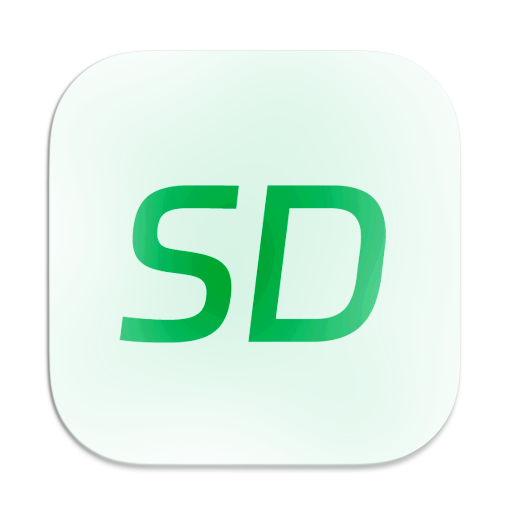
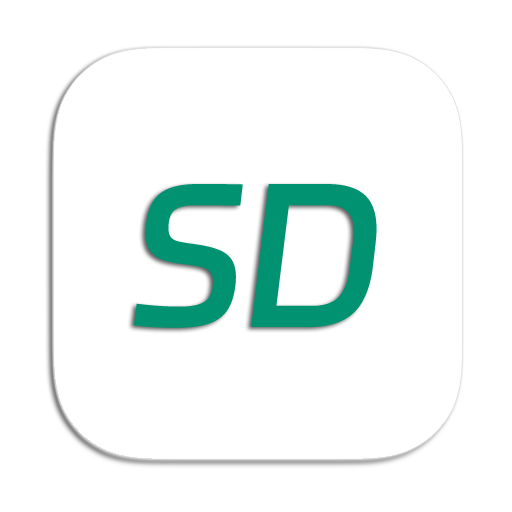
feat: 更新主题颜色和样式 - 修改了多个组件的背景色、字体颜色等样式 -调整了部分布局结构 - 更新了README中的发布日期 - 修改了Cargo.toml中的项目信息

diff --git a/src/node/Note.vue b/src/node/Note.vue
@@ -9,54 +9,56 @@ const props = defineProps(['data'])
 </script>
 
 <template>
-    <div class="note_node">
-        <!-- 这是便笺的标题 -->
-        <div class="header">
-            <Notes class="icon" />
-            <span>{{ data.basic.label }}</span>
-        </div>
-        <!-- 这是便笺的内容 -->
-        <ElInput v-model="data.component.text" class="body no-border-bg " type="textarea" :rows="11" autofocus />
+  <div class="note_node">
+    <!-- 这是便笺的标题 -->
+    <div class="header">
+
+      <span>{{ data.basic.label }}</span>
     </div>
+    <!-- 这是便笺的内容 -->
+    <ElInput v-model="data.component.text" class="body no-border-bg " type="textarea" :rows="11" autofocus/>
+  </div>
 </template>
 
 <style scoped>
 .no-border-bg :deep(.el-input__inner),
 .no-border-bg :deep(.el-textarea__inner) {
-    border: none !important;
-    background-color: transparent !important;
-    --el-input-focus-border-color: transparent !important;
-    --el-input-border-color: transparent !important;
-    --el-input-hover-border-color: transparent !important;
-    height: 100%;
-    font-family: 'dingtalk',serif;
-    color: #ffffff;
+  border: none !important;
+  background-color: transparent !important;
+  --el-input-focus-border-color: transparent !important;
+  --el-input-border-color: transparent !important;
+  --el-input-hover-border-color: transparent !important;
+  height: 100%;
+  font-family: 'dingtalk', serif;
+  color: #7e7e7e;
 }
 
 .note_node {
-    width: 200px;
-    height: 300px;
-    background: #ddc258;
-    border-radius: 5px;
-    box-shadow: 0 2px 5px 0 rgba(0, 0, 0, 0.3);
-    padding: 5px 10px;
-    text-align: center;
+  width: 200px;
+  height: 300px;
+  background: #ffffff;
+  border: #eeeeee 1px solid;
+  border-radius: 5px;
+  box-shadow: 0 2px 5px 0 rgba(0, 0, 0, 0.3);
+  padding: 5px 10px;
+  text-align: center;
 }
 
 .header {
-    font-size: 14px;
-    margin-bottom: 10px;
-    font-family: 'dingtalk',serif;
-    text-align: left;
-    padding: 10px;
-    border-bottom: 1px solid #ebebeb;
-    color: white;
+  font-size: 14px;
+  margin-bottom: 10px;
+  font-family: 'dingtalk', serif;
+  text-align: center;
+  padding: 12px;
+  border-bottom: 1px solid #ebebeb;
+  color: #454545;
 }
 
 .body {
-    text-align: left;
+  text-align: left;
 }
-.icon{
-    margin-right: 5px;
+
+.icon {
+  margin-right: 15px;
 }
 </style>

diff --git a/src/pages/Design.vue b/src/pages/Design.vue
@@ -62,9 +62,10 @@
               <PackNode v-bind="packNodeProps"/>
             </template>
           </VueFlow>
-          <el-empty class="empty" image="/icon.png" v-else>
+          <el-empty class="empty" image-size=0 v-else>
             <template #description>
-              <span class="empty-description-text">Simx Era 设计器</span>
+              <p class="empty-description-title">Simx Era Design</p>
+              <p class="empty-description-text">适用于 Simx Quantum Engine 的流程设计器</p>
             </template>
           </el-empty>
         </div>
@@ -198,13 +199,12 @@ onConnect(addEdges)
 .panel {
   display: flex;
   flex-direction: column;
-  width: 300px;
+  width: 235px;
 }
 
 .mainBar {
   height: 100%;
   /* width: 45px; */
-  padding-top: 10px;
   padding-left: 5px;
   padding-right: 5px;
   /* 元素纵向排列，顶对齐，水平居中，间隔10px */
@@ -250,9 +250,8 @@ onConnect(addEdges)
 .design {
   display: flex;
   flex-direction: column;
-  height: calc(100vh - 11px);
+  height: calc(100% - 1px);
   border-top: #ebebeb 1px solid;
-
 }
 
 .design-content {
@@ -302,6 +301,10 @@ onConnect(addEdges)
   gap: 10px;
 }
 
+.mainBarTop > :first-child {
+  margin-top: 5px;
+}
+
 .mainBarBottom {
   display: flex;
   flex-direction: column;
@@ -311,10 +314,18 @@ onConnect(addEdges)
   padding-bottom: 10px;
 }
 
-.empty-description-text {
-  color: #474747;
+.empty-description-title {
+  color: #8c8c8c;
   font-family: 'dingtalk', serif;
   font-weight: 300;
-  font-size: 18px;
+  font-size: 20px;
+  margin-bottom: 15px;
+}
+
+.empty-description-text {
+  color: #b8b8b8;
+  font-family: 'dingtalk', serif;
+  font-weight: 200;
+  font-size: 13px;
 }
 </style>

diff --git a/src/panel/NodesPanel.vue b/src/panel/NodesPanel.vue
@@ -86,12 +86,23 @@ const project = useProjectStore();
   width: 100%;
 }
 
+.sidebar .nodes {
+  display: flex;
+  flex-wrap: wrap; /* 允许换行 */
+  justify-content: left; /* 子元素之间有间距 */
+  align-items: flex-start;
+  justify-items: center;
+}
+
 .sidebar .nodes > div {
   margin-bottom: 10px;
+  margin-right: 10px; /* 添加水平间距 */
+  font-size: 11px;
   text-align: center;
-  line-height: 35px;
-  height: 35px;
-  width: 100%;
+  line-height: 30px;
+  height: 30px;
+  /*width: calc(33.333% - 10px); */
+  width: 90px; /* 每行显示三个节点 */
   border-radius: 5px;
   cursor: pointer;
   box-shadow: 0 1px 2px 0 rgba(0, 0, 0, 0.1);
@@ -104,30 +115,30 @@ const project = useProjectStore();
 .sidebar_start {
   color: #fff;
   font-weight: bold;
-  background-color: rgb(105, 123, 255);
+  background-color: rgb(5, 88, 35);
+}
+
+.sidebar_start:hover {
+  background-color: rgb(4, 158, 59);
 }
 
 .sidebar_exec {
   color: #fff;
   font-weight: bold;
-  background-color: rgb(105, 200, 255);
+  background-color: rgb(0, 94, 149);
 }
 
 .sidebar_exec:hover {
-  background-color: rgb(0, 162, 255);
-}
-
-.sidebar_start:hover {
-  background-color: rgb(0, 30, 255);
+  background-color: rgb(0, 113, 181);
 }
 
 .sidebar_note {
   color: #fff;
   font-weight: bold;
-  background-color: #ddc258;
+  background-color: #939393;
 }
 
 .sidebar_note:hover {
-  background-color: #ae9222;
+  background-color: #b5b5b5;
 }
 </style>

diff --git a/src/panel/AttrPanel.vue b/src/panel/AttrPanel.vue
@@ -49,11 +49,11 @@
             </el-tab-pane>
             <el-tab-pane label="自定义" name="custom">
                 <el-form :model="runtime.attr.custom" label-position="top">
-                    <div v-for="(item, index) in Object.keys(runtime.attr.custom)">
+                    <div v-for="(_, index) in Object.keys(runtime.attr.custom)">
                         <el-input :prefix-icon="MilkTea" v-model="runtime.attr.custom[index]" placeholder="格式key:value"
                             class="input-with-custom">
                             <template #append>
-                                <el-button type="warning" @click="handleCustomRemove(index)" :icon="Delete" />
+                                <el-button type="warning" @click="handleCustomRemove(index)" size="small" :icon="Delete" />
                             </template>
                         </el-input>
                     </div>

diff --git a/src/pages/Workspace.vue b/src/pages/Workspace.vue
@@ -29,7 +29,7 @@ const workspaceOpend = computed(() => {
         <img src="/icon.png" class="logo" alt="Logo"/>
         <!-- 标题 -->
         <span class="title">Simx Flow Design</span>
-        <div class="description">Simx Era Design 2025.1 春季版</div>
+        <div class="description">Simx Era Design 2025.2 夏季版</div>
         <div>
           <el-tooltip content="点击打开工作区，也可以选择一个空文件夹作为工作区" placement="bottom" effect="light">
             <el-button type="primary" link @click="openWorkspace">点击打开一个工作区</el-button>
@@ -69,7 +69,9 @@ const workspaceOpend = computed(() => {
 
 <style scoped>
 .main_container {
+  max-height: 100vh;
   height: calc(100vh - 10px);
+  overflow: auto;
 }
 
 .table {

diff --git a/src/components/NavePanel.vue b/src/components/NavePanel.vue
@@ -22,7 +22,7 @@ export default {
     },
     width: {
       type: String,
-      default: '400px'
+      default: '350px'
     },
     // 指定某个边显示边框
     locationBorder: {
@@ -36,14 +36,15 @@ export default {
 
 <style scoped>
 .nav-panel-header {
-  height: 25px;
+  height: 18px;
   display: flex;
   justify-content: space-between;
   align-items: center;
-  font-size: 14px;
+  background-color: rgba(238, 238, 238, 0.27);
+  font-size: 12px;
   /* font-weight: bold; */
   text-align: left;
-  padding: 10px 16px;
+  padding: 5px 16px;
   border-bottom: 1px solid #ebebeb;
   /* 隐藏超出的部分 */
   white-space: nowrap;

diff --git a/src/node/Exec.vue b/src/node/Exec.vue
@@ -19,17 +19,17 @@ watch(() => runtime.attr.basic.id, (newVal) => {
 
 <template>
     <div class="custom-node exec_node" :class="boxClass">
-        <Handle type="target" :position="Position.Top" />
+        <Handle type="target" :position="Position.Left" />
         <Components class="icon" />
         <div>{{ data.basic.label }}</div>
-        <Handle type="source" :position="Position.Bottom" />
+        <Handle type="source" :position="Position.Right" />
     </div>
 </template>
 
 <style scoped>
 .exec_node {
     color: #fff;
-    background: rgb(105, 200, 255);
+    background: rgb(0, 94, 149);
 }
 .icon{
     margin-right: 5px;

diff --git a/src/main.css b/src/main.css
@@ -54,7 +54,7 @@ body,
 
 /* 添加自定义主题色 */
 :root {
-    --el-color-primary: #00a6ff;
+    --el-color-primary: #12814c;
 }
 
 .el-menu--horizontal>.el-menu-item.is-active {
@@ -63,7 +63,7 @@ body,
 
 .el-menu--horizontal .el-menu-item:not(.is-disabled):focus, .el-menu--horizontal .el-menu-item:not(.is-disabled):hover{
     background-color: transparent;
-    color: #00a6ff;
+    color: #12814c;
 }
 
 .el-collapse {
@@ -78,7 +78,8 @@ body,
 .dnd-flow {
     flex-direction: column;
     display: flex;
-    height: 100%
+    height: 100%;
+    overflow: auto;
 }
 
 .dnd-flow aside {

diff --git a/src/node/Start.vue b/src/node/Start.vue
@@ -21,14 +21,14 @@ watch(() => runtime.attr.basic.id, (newVal) => {
     <div class="custom-node start_node" :class="boxClass">
         <AssemblyLine class="icon" />
         <div>{{ data.basic.label }}</div>
-        <Handle type="source" :position="Position.Bottom" />
+        <Handle type="source" :position="Position.Right" />
     </div>
 </template>
 
 <style scoped>
 .start_node {
     color: #fff;
-    background: rgb(105, 123, 255);
+    background: rgb(5, 88, 35);
 }
 .icon{
     margin-right: 5px;

diff --git a/src/store/configuration.ts b/src/store/configuration.ts
@@ -11,7 +11,8 @@ const useConfigStore = defineStore('config-pinia', () => {
         // 多语言
         language: "zh-CN",
         // 主题颜色
-        theme_color: "#69bcff",
+        // theme_color: "#69bcff",
+        theme_color: "#206f36",
     });
 
     // 中央仓库配置

diff --git a/src/components/NaveItem.vue b/src/components/NaveItem.vue
@@ -50,13 +50,13 @@ const emit = defineEmits(['click']);
 }
 
 .nave-item:hover {
-  background-color: #69bcff;
+  background-color: #12814c;
   color: white;
   /* box-shadow: 1px 1px 1px #ebebeb; */
 }
 
 .selected {
-  color: #69bcff;
+  color: #12814c;
 }
 
 </style>

diff --git a/src/components/NaveMenuButtom.vue b/src/components/NaveMenuButtom.vue
@@ -66,11 +66,12 @@ const props = defineProps({
 .mainBarButton:hover {
   box-shadow: 0 1px 1px 0 rgba(0, 0, 0, 0.29);
   color: #ffffff;
+  background-color: #12814c;
   border: none;
 }
 
 .selected{
-  color: #69bcff;
+  color: #12814c;
 }
 
 .disabled{
